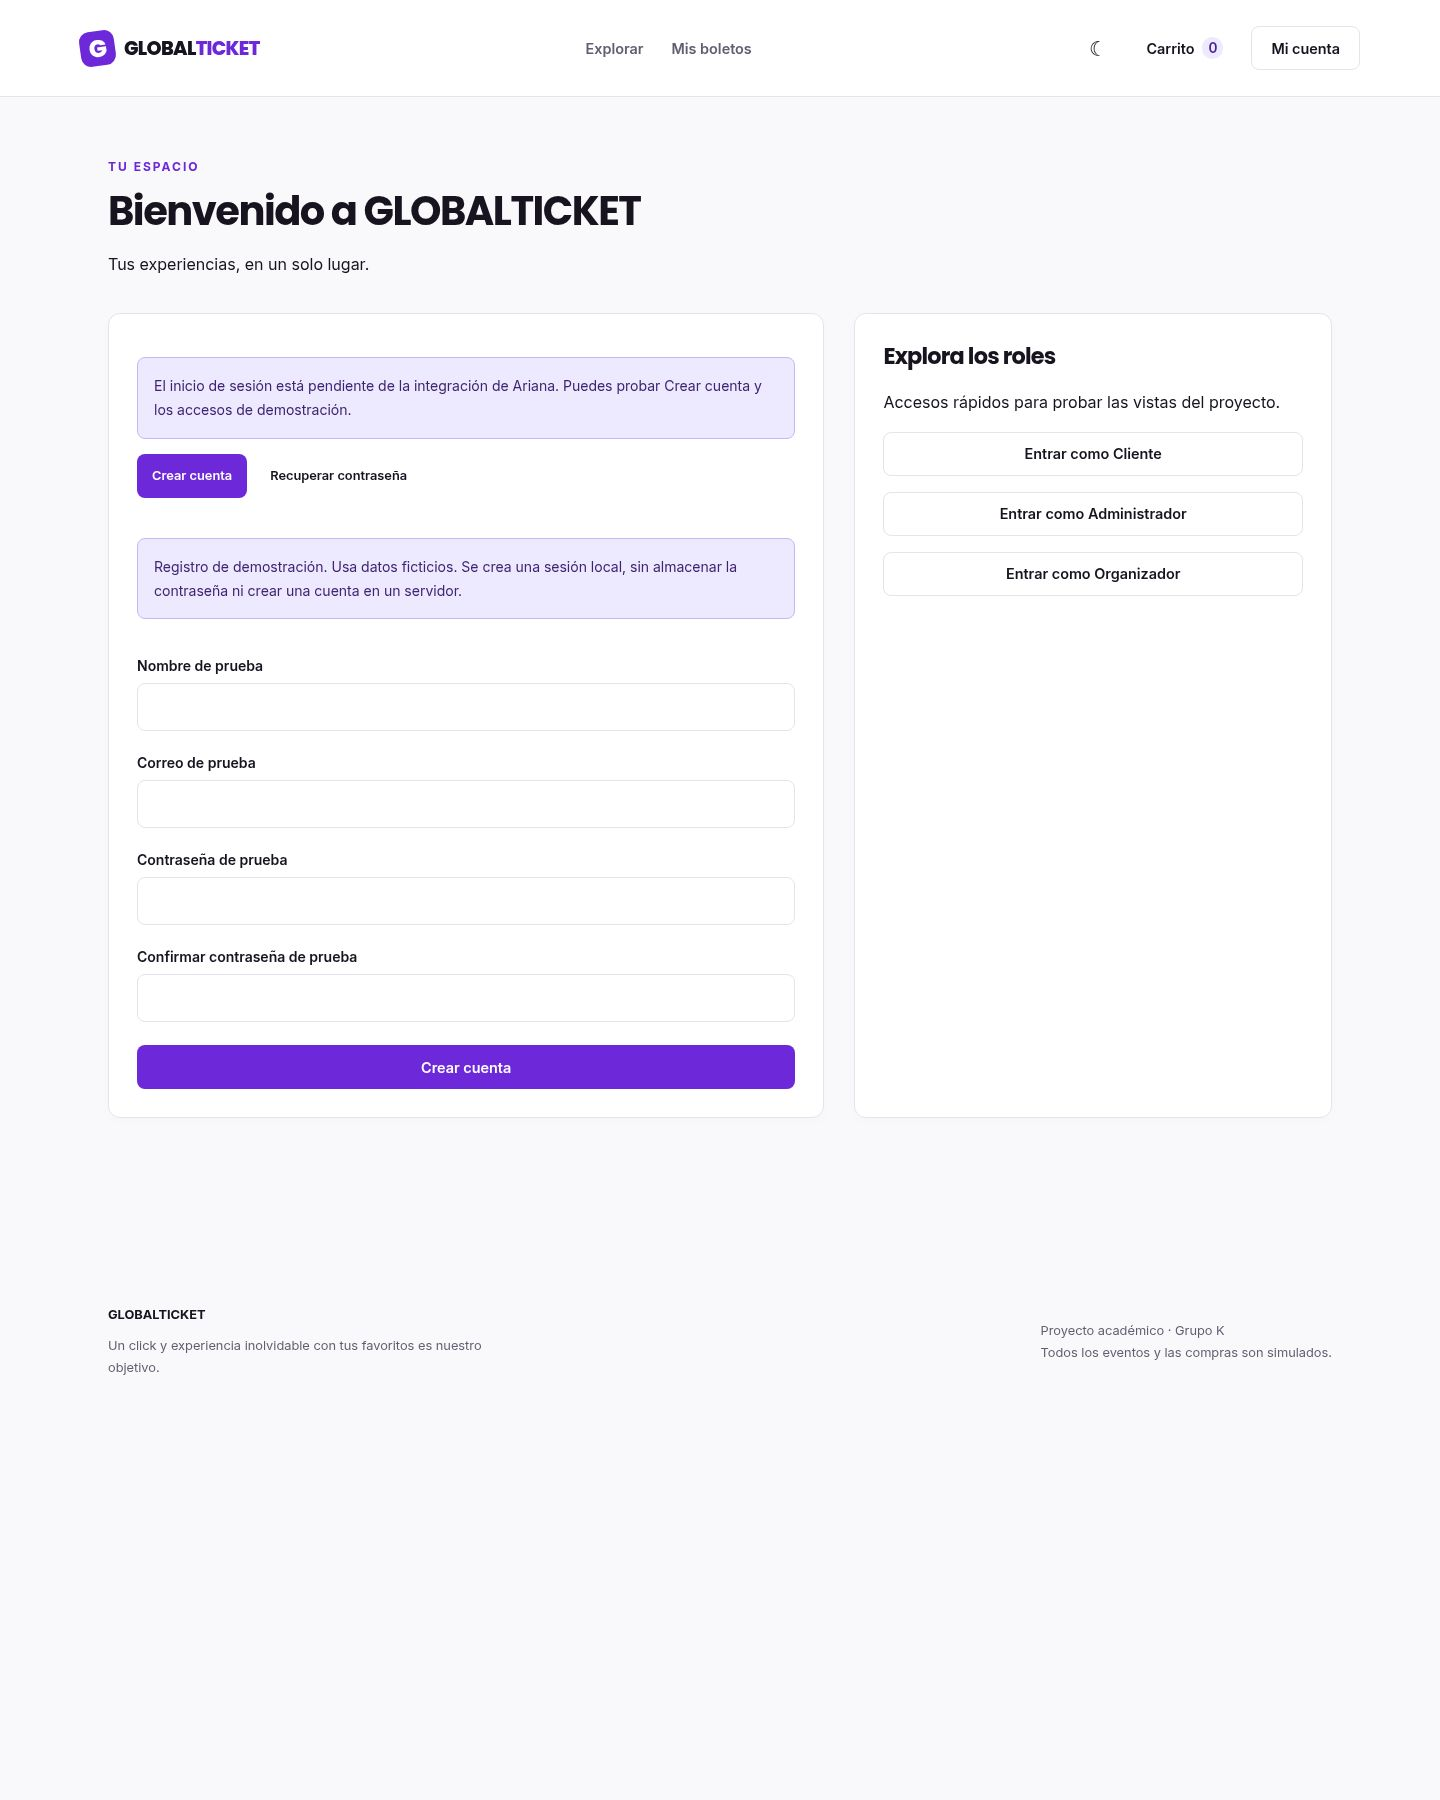
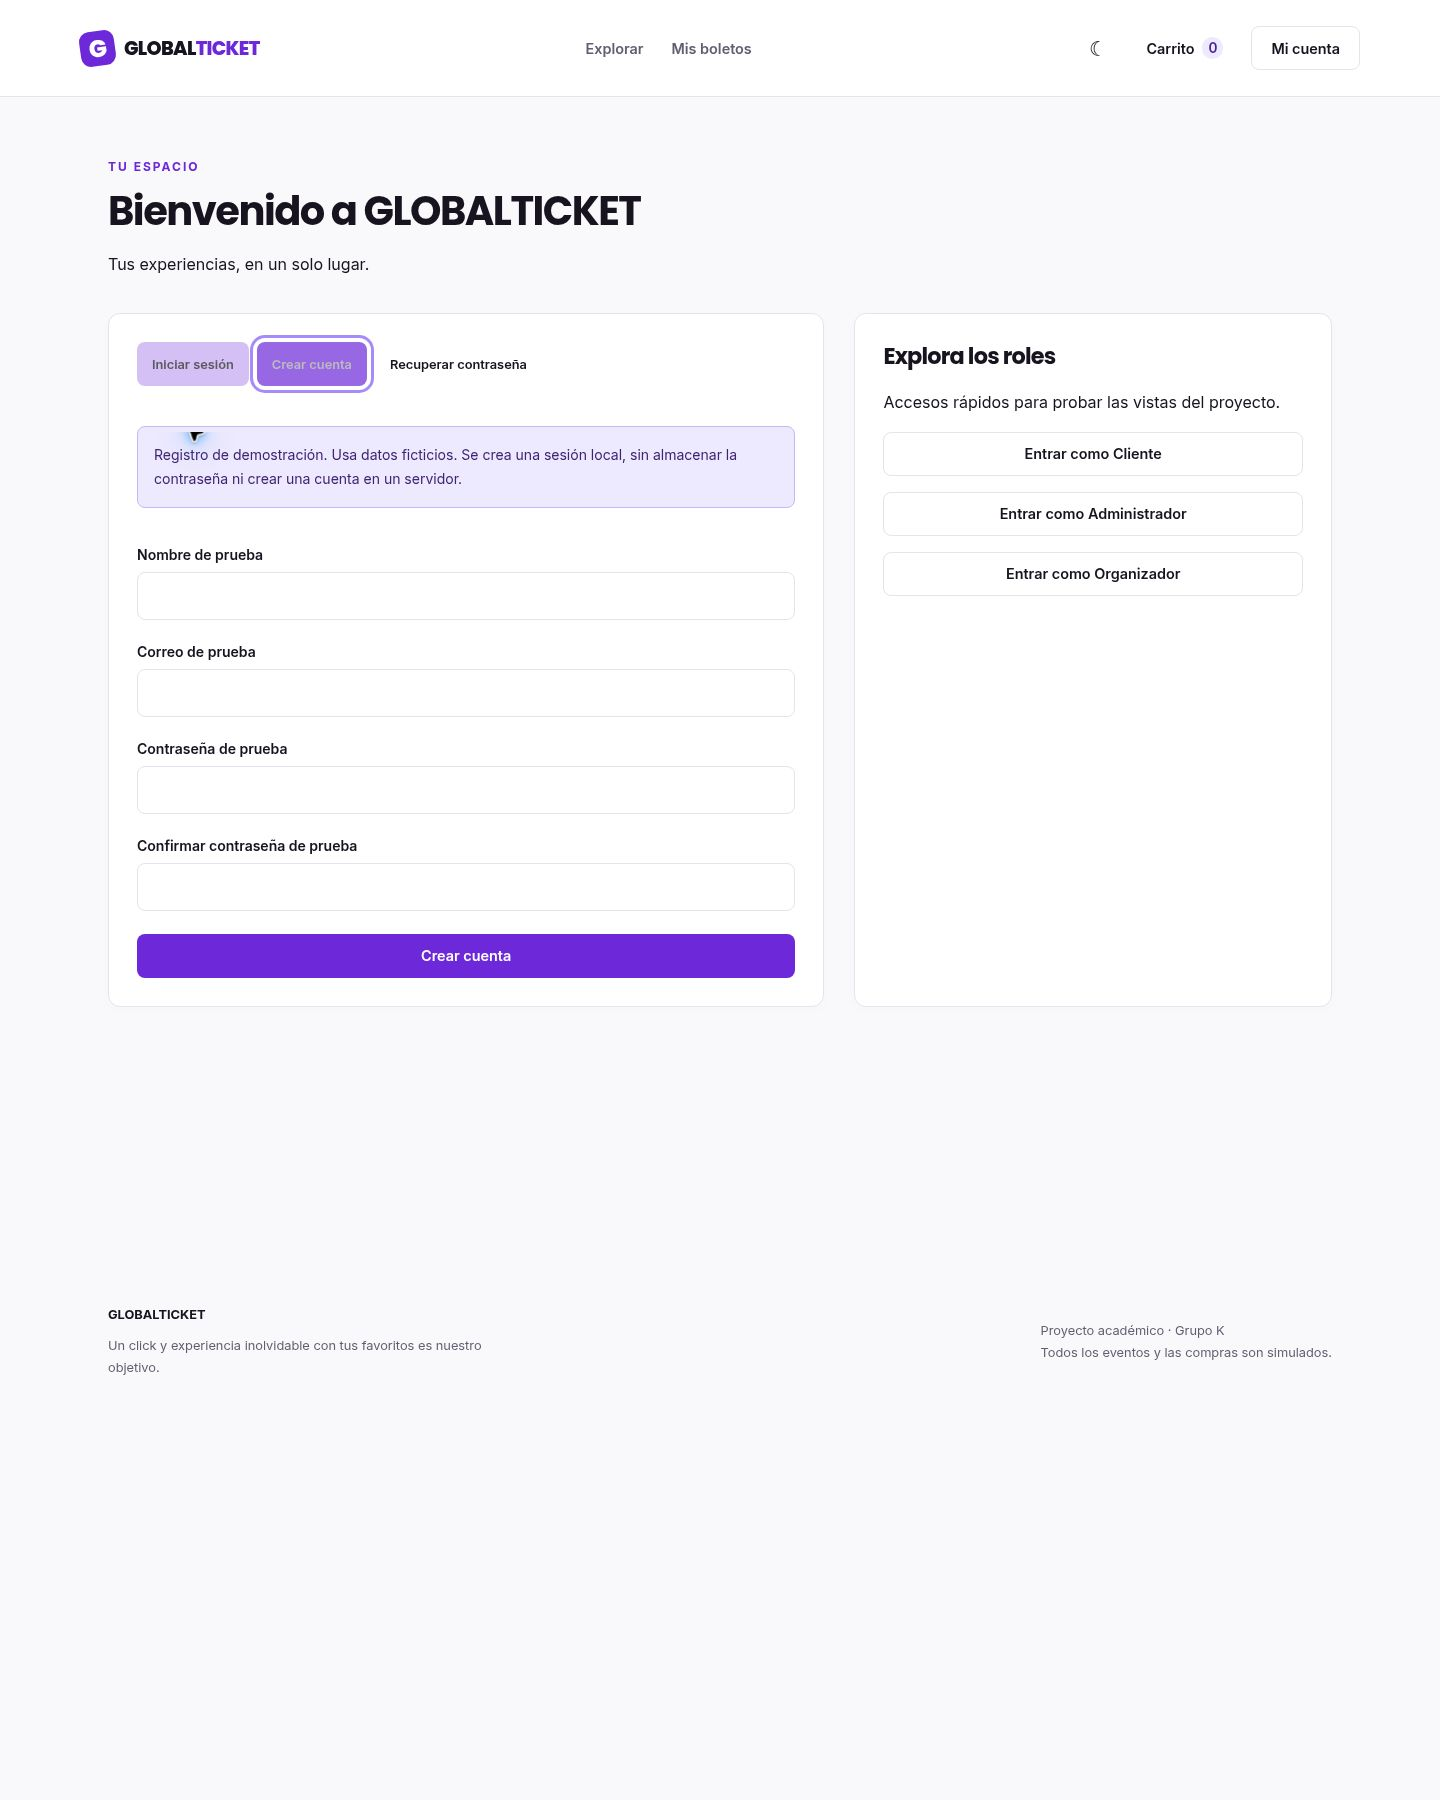
Completar documentación y evidencias responsive de login y registro integrados

Changed region(s): [[0.0938, 0.4667, 0.5625, 0.6222], [0.0938, 0.1867, 0.5312, 0.3733], [0.0938, 0.4044, 0.1875, 0.4356]]

diff --git a/docs/Capturas.md b/docs/Capturas.md
@@ -1,14 +1,15 @@
 # Capturas de GLOBALTICKET K
 
-Capturas de la base de Lijian a 375, 768 y 1440 píxeles. Se usó el navegador con un marco de la aplicación a cada ancho exacto y 1800 px de alto; se capturó ese marco sin reescalar las imágenes. No se utilizaron las capturas anteriores. En cada vista se comprobó que el ancho del documento coincide con el ancho disponible, sin desborde horizontal de página.
+Capturas de GLOBALTICKET K a 375, 768 y 1440 píxeles. Se usó el navegador con un marco de la aplicación a cada ancho exacto y 1800 px de alto; se capturó ese marco sin reescalar las imágenes. No se utilizaron las capturas anteriores. En cada vista se comprobó que el ancho del documento coincide con el ancho disponible, sin desborde horizontal de página.
 
 La compra de ejemplo usa Cliente Demo, cliente@example.com, dos boletos VIP de Neon Nights y un total de $120.00. Los QR y órdenes son de demostración. El panel muestra una compra local. El navegador comparte sus datos de prueba entre las vistas.
 
-El inicio de sesión aún no está integrado en esta base. Ariana debe añadir la evidencia de su formulario después de subirlo.
+Inicio de sesión y Crear cuenta se muestran integrados en la misma sección de cuenta. Las capturas de ambos formularios corresponden a la versión final integrada.
 
 | Pantalla | Móvil 375 px | Tablet 768 px | Escritorio 1440 px |
 | --- | --- | --- | --- |
 | Catálogo | [375 px](capturas/catalogo-375.jpg) | [768 px](capturas/catalogo-768.jpg) | [1440 px](capturas/catalogo-1440.jpg) |
+| Iniciar sesión | [375 px](capturas/login-375.jpg) | [768 px](capturas/login-768.jpg) | [1440 px](capturas/login-1440.jpg) |
 | Crear cuenta | [375 px](capturas/registro-375.jpg) | [768 px](capturas/registro-768.jpg) | [1440 px](capturas/registro-1440.jpg) |
 | Detalle y zonas | [375 px](capturas/detalle-375.jpg) | [768 px](capturas/detalle-768.jpg) | [1440 px](capturas/detalle-1440.jpg) |
 | Carrito | [375 px](capturas/carrito-375.jpg) | [768 px](capturas/carrito-768.jpg) | [1440 px](capturas/carrito-1440.jpg) |

diff --git a/docs/Arquitectura.md b/docs/Arquitectura.md
@@ -16,9 +16,9 @@
 
 Catalog recibe eventos y llama a `onOpen`. Detail selecciona una zona y cantidad y llama a `onAdd`. App valida la disponibilidad y actualiza cart. Cart y OrderSummary calculan el total. Checkout solicita nombre/correo, valida y simula rechazo o aprobación. App registra una sola orden, vacía el carrito y crea la sesión de invitado si hace falta. Tickets recibe las órdenes de la sesión y genera un QR por admisión. Cancelar marca la orden como Cancelada; la disponibilidad derivada se libera.
 
-## Flujo de autenticación e integración
+## Flujo de autenticación
 
-Account contiene pestañas y perfil. RegistrationForm recorta y valida nombre, correo, longitud y confirmación de la contraseña. RecoveryForm simula la recuperación sin correos. El componente LoginForm es la contribución reservada a Ariana y se carga opcionalmente mediante `import.meta.glob`. Mientras no exista, la aplicación muestra registro, recuperación y roles de prueba. Al agregar el archivo, Account habilita el login sin modificar el registro.
+Account contiene las pestañas Iniciar sesión, Crear cuenta y Recuperar contraseña, además del perfil. LoginForm normaliza el correo y valida la contraseña ficticia antes de comunicar el acceso simulado. RegistrationForm recorta y valida nombre, correo, longitud y confirmación de la contraseña. RecoveryForm simula la recuperación sin correos. Los tres componentes están organizados en `src/components/auth`; Account incorpora LoginForm mediante `import.meta.glob`.
 
 Los formularios reciben `onSuccess`, no acceden directamente al estado global. Account transforma el resultado en una sesión y llama a setSession. Los roles rápidos permiten probar las vistas; no son controles de seguridad reales. Ninguna contraseña se guarda.
 

diff --git a/README.md b/README.md
@@ -41,7 +41,7 @@ npm run preview
 - Carrito persistente y compra en cuatro pasos.
 - Pago simulado con aprobación, rechazo y reintento.
 - Boletos con QR y cancelación de órdenes.
-- Registro, recuperación de contraseña simulada, perfil y roles de demostración.
+- Inicio de sesión, registro, recuperación de contraseña simulada, perfil y roles de demostración.
 - Panel con dashboard, eventos, inventario, precios y usuarios.
 - Reportes estáticos, tema claro/oscuro y estados de carga, error y vacío.
 
